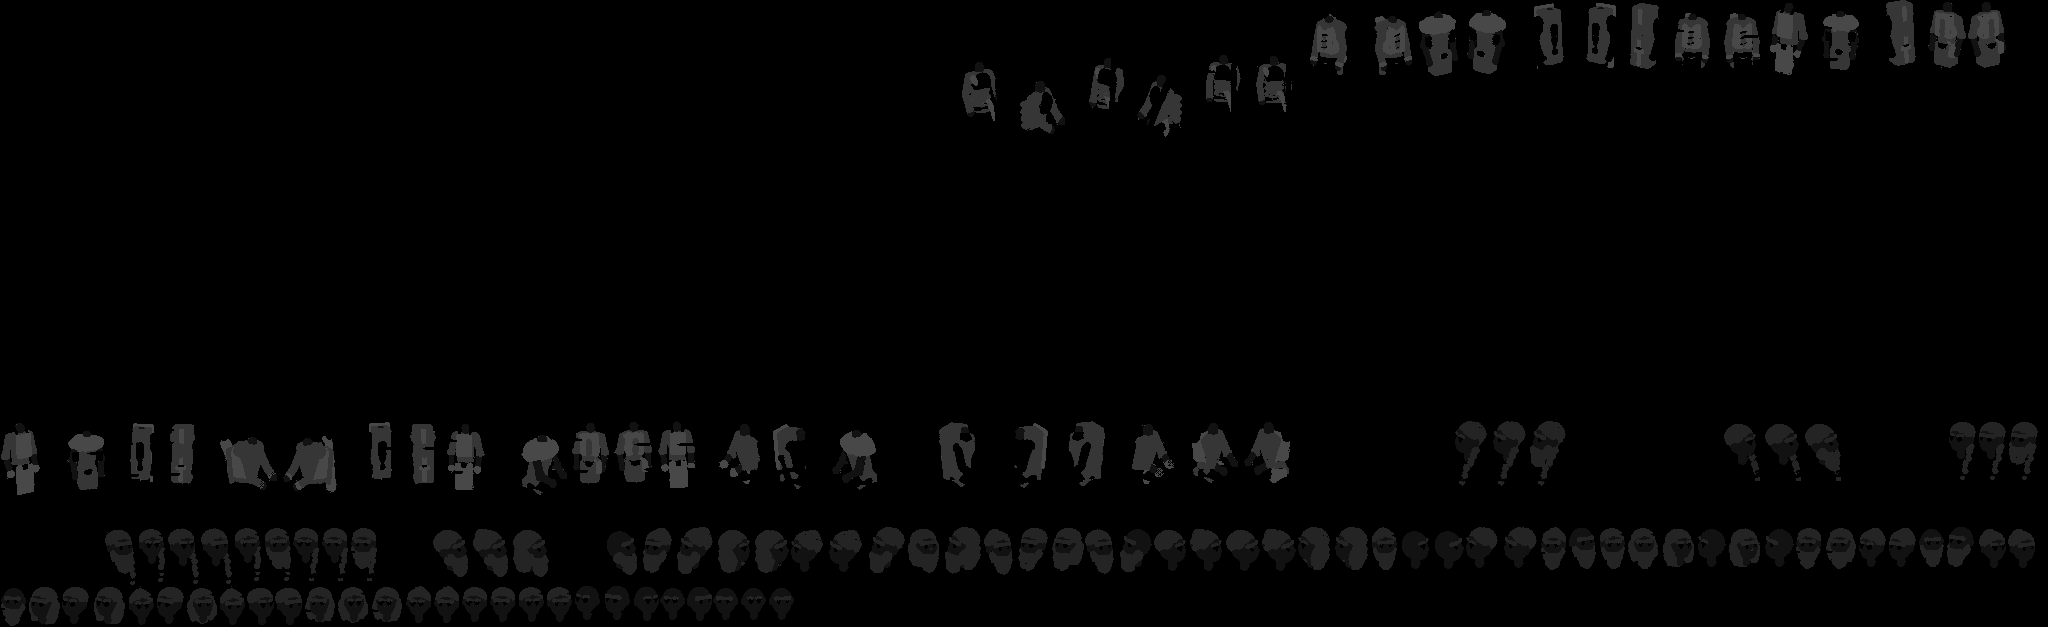
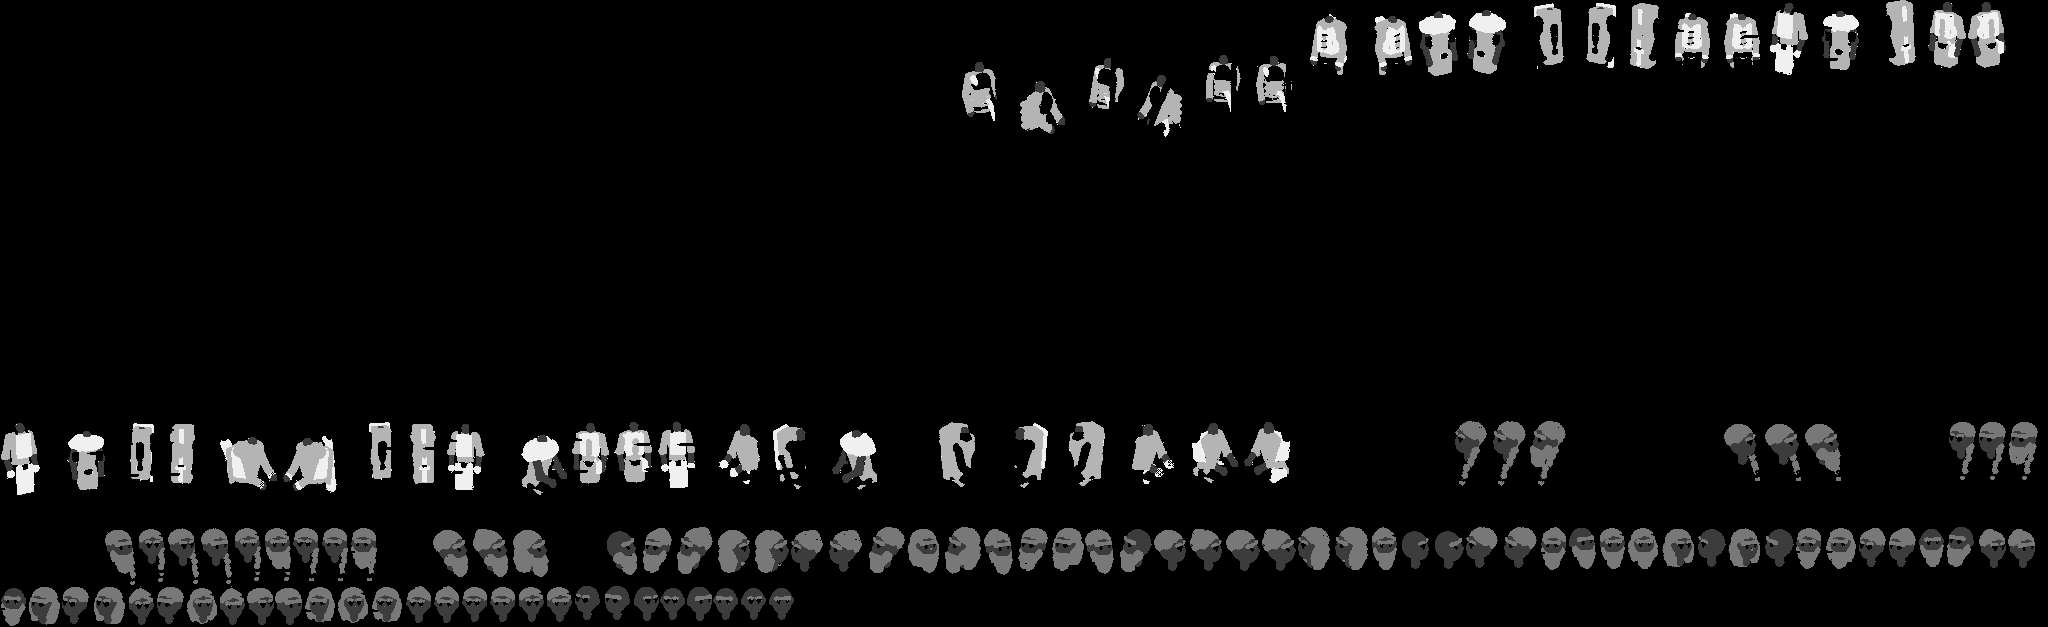
Heroes: outfit and hair colours now apply (camp colour mask was saved as brightness, not slot)

diff --git a/sw.js b/sw.js
@@ -1,6 +1,6 @@
 // Offline support for Ore Heroes: pages are fetched fresh when online (so updates arrive) and served from cache when offline.
 // Its own cache name, separate from Blacksmith Battles.
-const C='ore-heroes-v34';
+const C='ore-heroes-v35';
 self.addEventListener('install',e=>{e.waitUntil(caches.open(C).then(c=>c.addAll(['./','index.html','art/mine.png','art/mine-slots.png','art/mine.json','art/forge.png','art/camp.json','art/camp.png','art/camp-slots.png','art/explore.json','art/explore.png','art/forge.json','art/forge-slots.png','art/icons/h-smith.slots.png','art/icons/h-swordsmith.slots.png','art/icons/h-bowyer.slots.png','art/icons/h-bowyer.png','art/icons/w-bow.png','art/icons/h-axesmith.slots.png','art/icons/h-spearwright.slots.png','art/icons/h-shieldwright.slots.png','art/icons/h-hammersmith.slots.png','manifest.webmanifest','forge3d.js','kit3d.js','lib/three.module.min.js','lib/addons/loaders/GLTFLoader.js','lib/addons/utils/BufferGeometryUtils.js','models/Barbarian.glb','models/Caveman.glb','models/Cleric.glb','models/Copper_Bar.glb','models/Copper_Nugget_Large.glb','models/Copper_Nuggets.glb','models/Engineer.glb','models/Farmer_A.glb','models/Hiker.glb','models/Hoarder.glb','models/Knight.glb','models/Lorekeeper.glb','models/Mage.glb','models/Ranger.glb','models/Rogue.glb','models/anim_general.glb','models/anim_move.glb','models/anim_tools.glb','models/anvil.glb','models/axe_A.glb','models/barrel_small.glb','models/bucket_metal.glb','models/bucket_pickaxes.glb','models/crates_stacked.glb','models/dynamite.glb','models/furnace_forge.glb','models/grindstone.glb','models/hammer.glb','models/hammer_A.glb','models/hourglass.glb','models/lantern_hanging.glb','models/lantern_standing.glb','models/pickaxe.glb','models/post_lantern.glb','models/rocks.glb','models/rocks_gold.glb','models/shield_A.glb','models/spear_A.glb','models/sword_A.glb','models/tongs.glb','models/tracks_straight.glb','models/train_tender_empty.glb','art/icons/h-axesmith.png','art/icons/h-blaster.png','art/icons/h-carter.png','art/icons/h-foreman.png','art/icons/h-hammersmith.png','art/icons/h-lamp.png','art/icons/h-miner.png','art/icons/h-phantom.png','art/icons/h-prospector.png','art/icons/h-shieldwright.png','art/icons/h-smith.png','art/icons/h-spearwright.png','art/icons/h-swordsmith.png','art/icons/h-time.png','art/icons/w-axe.png','art/icons/w-hammer.png','art/icons/w-pick.png','art/icons/w-shield.png','art/icons/w-spear.png','art/icons/w-sword.png','art/icons/h-blaster.slots.png','art/icons/h-carter.slots.png','art/icons/h-foreman.slots.png','art/icons/h-lamp.slots.png','art/icons/h-miner.slots.png','art/icons/h-phantom.slots.png','art/icons/h-prospector.slots.png','art/icons/h-time.slots.png','icon-192.png','icon-512.png','apple-touch-icon.png'])));self.skipWaiting()});
 self.addEventListener('activate',e=>e.waitUntil(caches.keys().then(ks=>Promise.all(ks.filter(k=>k.startsWith('ore-heroes-')&&k!==C).map(k=>caches.delete(k)))).then(()=>self.clients.claim())));
 self.addEventListener('fetch',e=>{const r=e.request;if(r.method!=='GET')return;

diff --git a/tools/split.py b/tools/split.py
@@ -34,7 +34,8 @@ for set_, order in SETS.items():
             continue
         a = rgb(n)
         sp = os.path.join(FR, n + '.slots.png')
-        sl = np.asarray(Image.open(sp).convert('L')) if os.path.exists(sp) else None
+        # the slot is in the red channel (multi.js writes 60 x slot there), not the brightness
+        sl = np.asarray(Image.open(sp).convert('RGB'))[..., 0] if os.path.exists(sp) else None
         for j, spot in enumerate(order):
             keep = owner[None, :].repeat(bg.shape[0], 0) == j
             out = np.where(keep[..., None], a, bg).astype(np.uint8)
